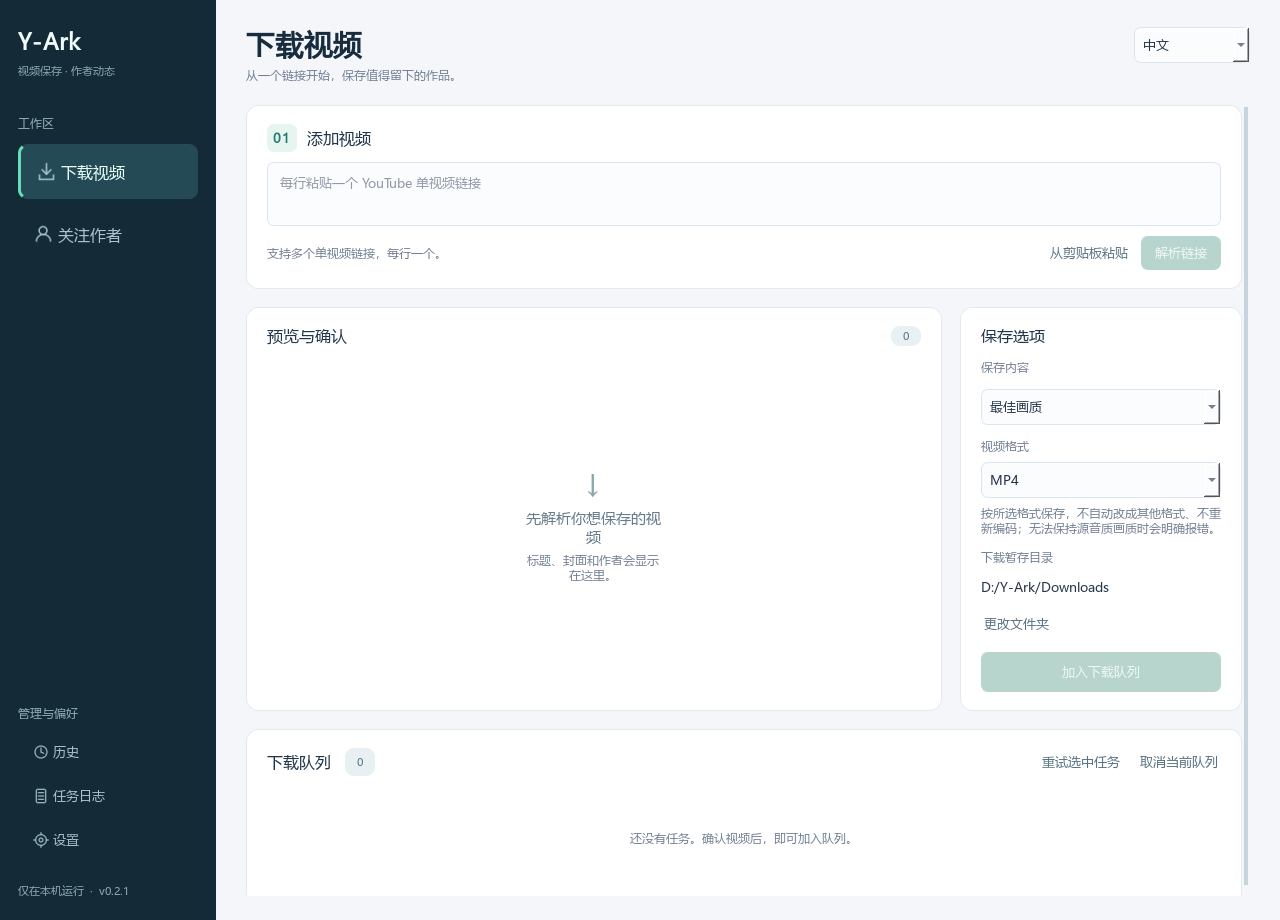
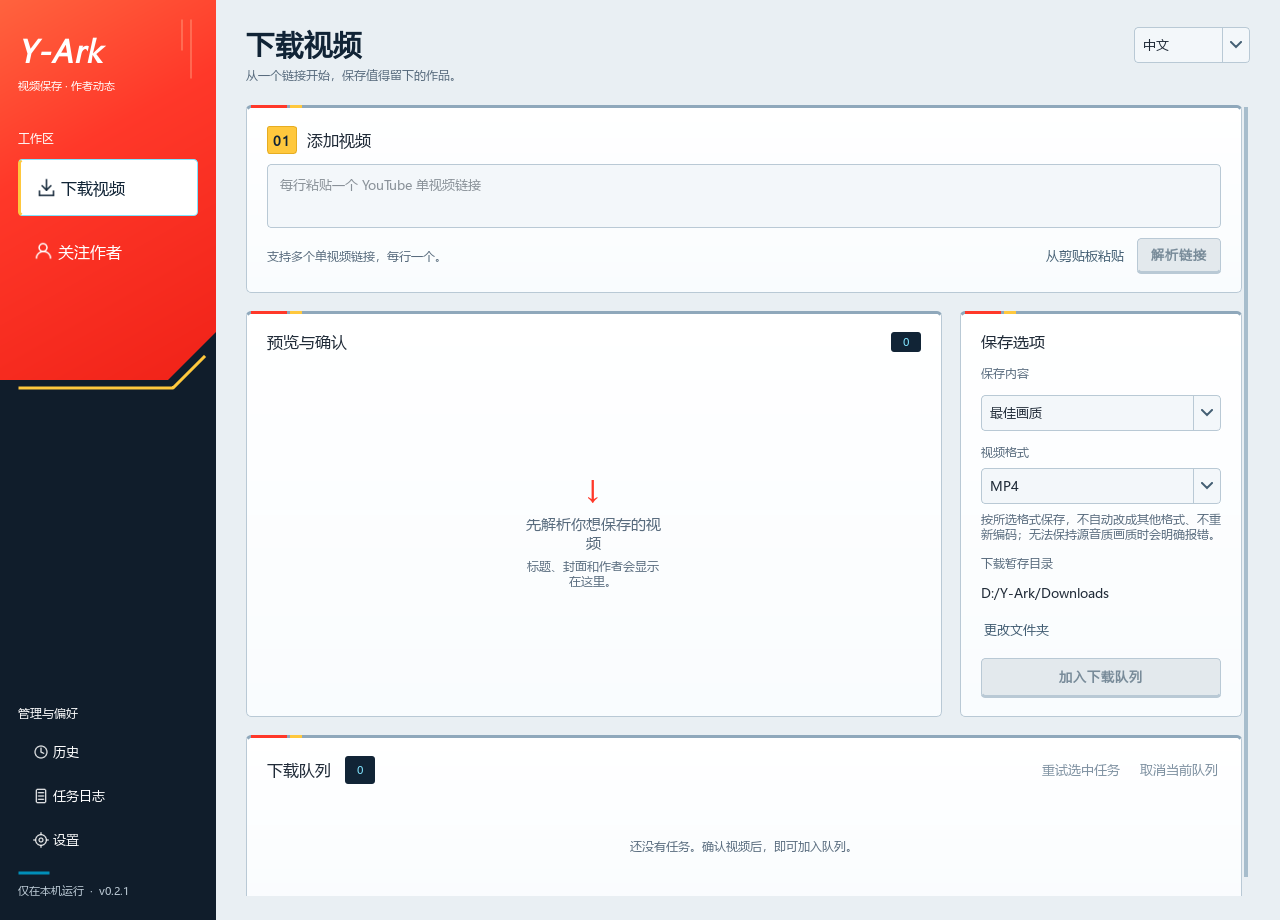
docs: refresh README screenshots for Grani Ignition UI

diff --git a/docs/UI-THEME.md b/docs/UI-THEME.md
@@ -1,0 +1,30 @@
+# 葛拉尼 · Ignition
+
+保留原有工作区结构，以葛拉尼和红莲骑士兽为灵感，使用鲜亮朱红的装甲外壳、银白面板、亮金接缝和冰蓝指示。参考 [葛拉尼外观](https://digimon.fandom.com/wiki/Grani_%28Tamers%29) 和 [万代 D-Ark 资料](https://p-bandai.jp/item/item-1000104511/)，不使用角色图像或标志。
+
+## 视觉语言
+
+| 元素 | 色值 / 处理 | 用途 |
+| --- | --- | --- |
+| 鲜亮朱红 | `#FF3829` | 主按钮、侧栏外壳、边缘嵌条 |
+| 外壳高光 | `#FF633E` | 侧栏轻微定向渐变 |
+| 亮金 | `#FFC83D` | 斜切接缝、步骤编号、选中标记 |
+| 深海军黑 | `#101D2B` | 侧栏下半部 |
+| 银白 | `#E9EFF3` / `#FFFFFF` | 工作区与面板 |
+| 冰蓝 | `#80E4FF` | 深底计数器文字 |
+| 焦点蓝 | `#008EB8` | 输入及键盘焦点 |
+| 深墨蓝 | `#202B38` | 正文 |
+
+侧栏采用斜切红色外壳，金色线条沿切口延伸。当前导航切换为银白色块及深色图标。面板缩小圆角，使用银色顶边、红金嵌条和轻微白色渐变。主按钮使用鲜红平面与较深的下沿。下拉箭头使用应用内 SVG，替换原有系统立体边框。颜色表达来自角色设计，页面结构与 YouTube 保存工具的操作流程保持一致。
+
+成功、警告、错误继续通过状态文字和独立底色区分。亮红采用视觉优先的高饱和方案：白字对主红的对比度约 3.59:1，未达到普通字号文字 4.5:1 的 AA 门槛。正文对白底约 14.34:1，次要文字对白底约 5.42:1，深字对亮金约 10.22:1；这些数值不代表应用经过完整无障碍认证。
+
+## 实现与验证
+
+`creatorsave/theme.py` 管理颜色、QSS 和 Qt 调色板。`creatorsave/ui.py` 中的 `ArmorSidebar` 和 `ArmorCard` 绘制外壳及接缝，不增加操作步骤。`creatorsave/assets/chevron-down.svg` 随 Python 包一起交付。
+
+截图使用独立临时数据库和模拟内容，覆盖中文、英文、日文、1120×800 紧凑窗口、设置和分组弹窗。现有 GUI、作者分组/保存选项 GUI 和解析反馈测试共 17 项通过，wheel 构建通过并包含下拉箭头资源。下载引擎与数据格式未修改。
+
+![下载页](interface-zh.png)
+
+![关注页](interface-groups.png)
